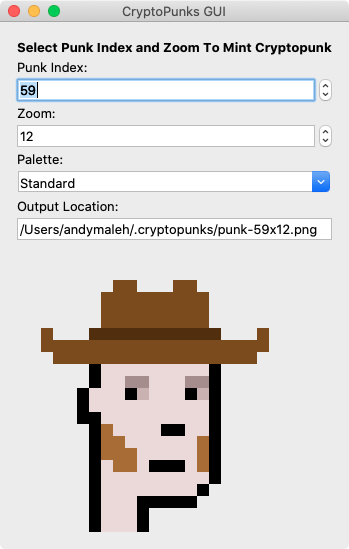
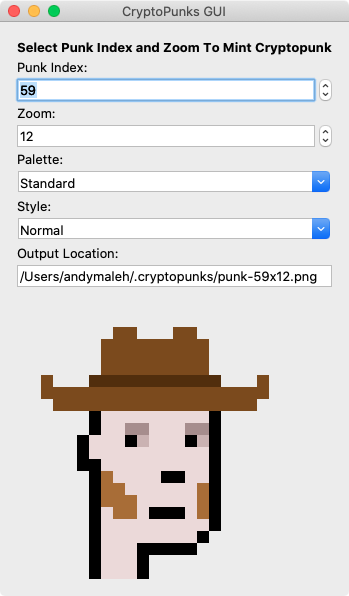
Style support (e.g. mirror, flip, sketch, led)

Changed region(s): [[0.0, 0.0, 1.0, 0.9599], [0.4011, 0.9599, 0.4298, 0.9909], [0.2579, 0.9599, 0.2865, 0.9909]]

diff --git a/app/cryptopunks_gui.rb b/app/cryptopunks_gui.rb
@@ -1,5 +1,6 @@
 require 'glimmer-dsl-tk'
 require 'cryptopunks'
+require 'facets'
 require 'fileutils'
 require 'net/http'
 require 'uri'
@@ -10,8 +11,9 @@ class CryptopunksGui
   include Glimmer
   
   PALETTES = ['Standard'] + (Palette8bit.constants).map(&:name).map {|palette| palette.split('_').map(&:capitalize).join(' ')}.reject { |palette| palette.include?(' ') }
+  STYLES = ['Normal', 'Flip', 'Mirror', 'Led', 'Sketch']
   
-  attr_accessor :punk_index, :zoom, :palette
+  attr_accessor :punk_index, :zoom, :palette, :style
   
   def initialize
     @punk_directory = File.join(Dir.home, '.cryptopunks')
@@ -20,7 +22,8 @@ class CryptopunksGui
     File.write(@punk_file, Net::HTTP.get(URI('https://raw.githubusercontent.com/larvalabs/cryptopunks/master/punks.png'))) unless File.exist?(@punk_file)
     @punks = Punks::Image::Composite.read(@punk_file)
     @zoom = 12
-    @palette = 'Standard'
+    @palette = PALETTES.first
+    @style = STYLES.first
     
     observer = Glimmer::DataBinding::Observer.proc do
       generate_image
@@ -28,6 +31,7 @@ class CryptopunksGui
     observer.observe(self, :punk_index)
     observer.observe(self, :zoom)
     observer.observe(self, :palette)
+    observer.observe(self, :style)
     
     create_gui
     self.punk_index = 0
@@ -38,15 +42,30 @@ class CryptopunksGui
     PALETTES
   end
   
+  def style_options
+    STYLES
+  end
+  
   def generate_image
-    image_location = File.join(@punk_directory, "punk-#{@punk_index}#{"x#{@zoom}" if @zoom.to_i > 1}#{"-#{@palette.downcase.gsub(' ', '_')}" if @palette != 'Standard'}.png")
+    image_location = File.join(@punk_directory, "punk-#{@punk_index}#{"x#{@zoom}" if @zoom.to_i > 1}#{"-#{@palette.underscore}" if @palette != PALETTES.first}#{"-#{@style.underscore}" if @style != STYLES.first}.png")
     puts "Writing punk image to #{image_location}"
     selected_punk = @punks[@punk_index.to_i]
-    selected_punk = selected_punk.change_palette8bit(Palette8bit.const_get(@palette.gsub(' ', '_').upcase.to_sym)) if @palette != 'Standard'
+    selected_punk = selected_punk.change_palette8bit(Palette8bit.const_get(@palette.gsub(' ', '_').upcase.to_sym)) if @palette != PALETTES.first
+    @original_zoom = @zoom
+    if @style != STYLES.first
+      selected_punk = selected_punk.send(@style.underscore)
+      if @style != @previous_style
+        @zoom = 12 if @style == 'Flip' && !['Normal', 'Mirror'].include?(@previous_style)
+        @zoom = 12 if @style == 'Mirror' && !['Normal', 'Flip'].include?(@previous_style)
+        @zoom = 2 if @style == 'Sketch'
+        @zoom = 1 if @style == 'Led'
+      end
+    end
     selected_punk = selected_punk.zoom(@zoom.to_i)
     selected_punk.save(image_location)
     @image_label.image = image_location
     @message_entry.text = image_location
+    notify_observers(:zoom) if @zoom != @original_zoom
   end
   
   def create_gui
@@ -82,9 +101,16 @@ class CryptopunksGui
           text 'Palette:'
         }
         combobox {
-          # TODO (mirrored, grayscale, sepia, etc...)
-          readonly true # this applies to text editing only (item selection still triggers a write to model)
+          readonly true
           text <=> [self, :palette]
+        }
+        
+        label {
+          text 'Style:'
+        }
+        combobox {
+          readonly true
+          text <=> [self, :style, before_write: ->(v) {@previous_style = @style}]
         }
         
         label {

diff --git a/README.md b/README.md
@@ -1,4 +1,4 @@
-# <img src="https://raw.githubusercontent.com/AndyObtiva/cryptopunks-gui/master/icons/cryptopunks-gui.png" height=85 /> CryptoPunks GUI 0.0.2
+# <img src="https://raw.githubusercontent.com/AndyObtiva/cryptopunks-gui/master/icons/cryptopunks-gui.png" height=85 /> CryptoPunks GUI 0.0.3
 ## Simplified Minting
 [![Gem Version](https://badge.fury.io/rb/cryptopunks-gui.svg)](http://badge.fury.io/rb/cryptopunks-gui)
 
@@ -25,7 +25,7 @@ You can use CryptoPunks GUI via gem or via cloning repository.
 Run:
 
 ```
-gem install cryptopunks-gui -v0.0.2
+gem install cryptopunks-gui -v0.0.3
 ```
 
 Afterwards, run app via:

diff --git a/CHANGELOG.md b/CHANGELOG.md
@@ -1,5 +1,9 @@
 # Change Log
 
+## 0.0.3
+
+- Style support (e.g. mirror, flip, sketch, led)
+
 ## 0.0.2
 
 - Palette support (e.g. grayscale or sepia)
